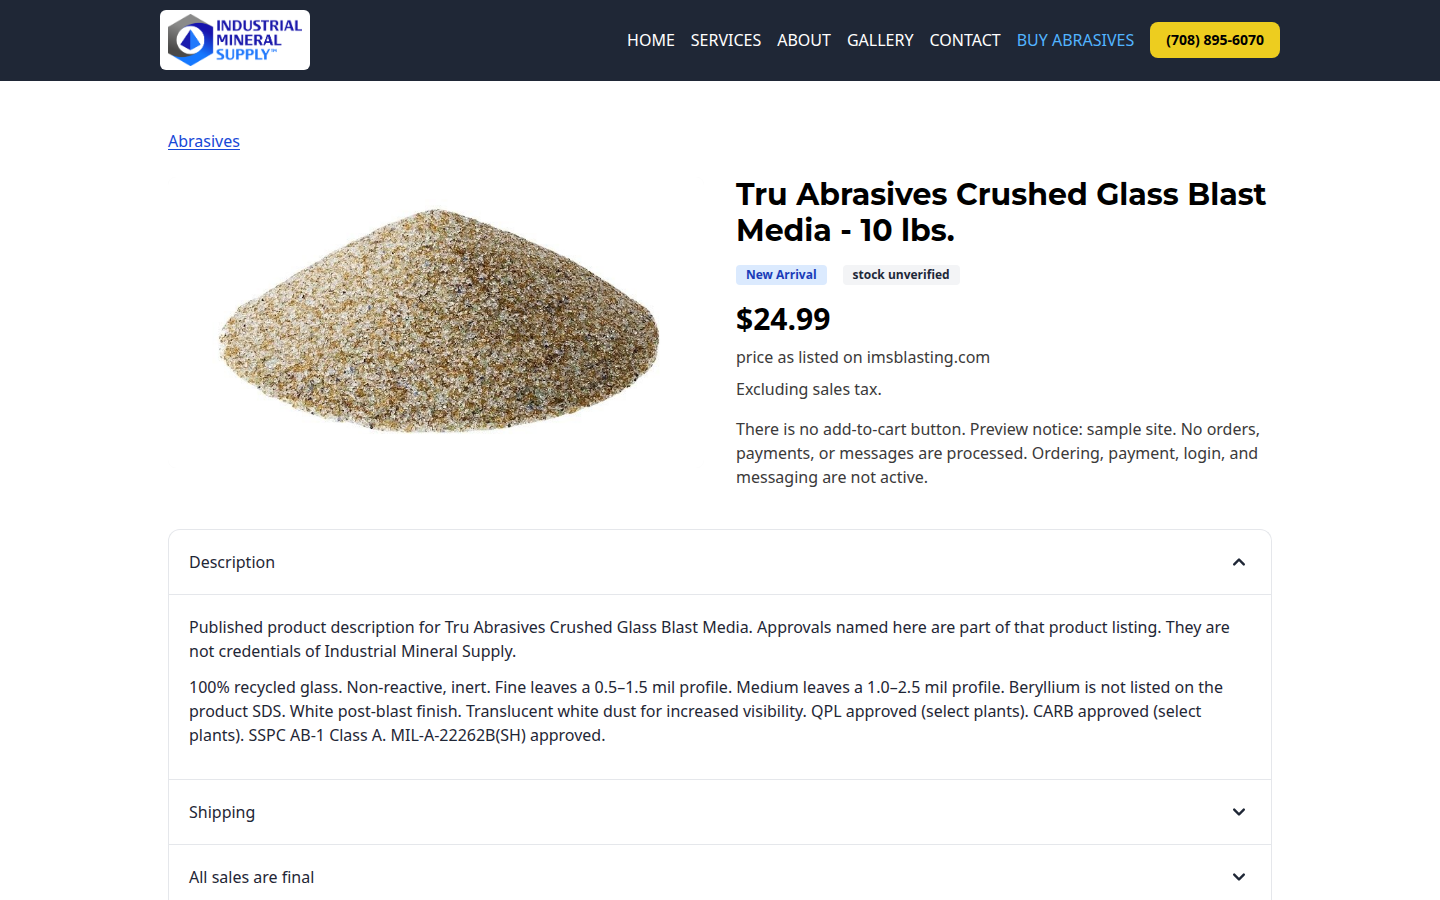
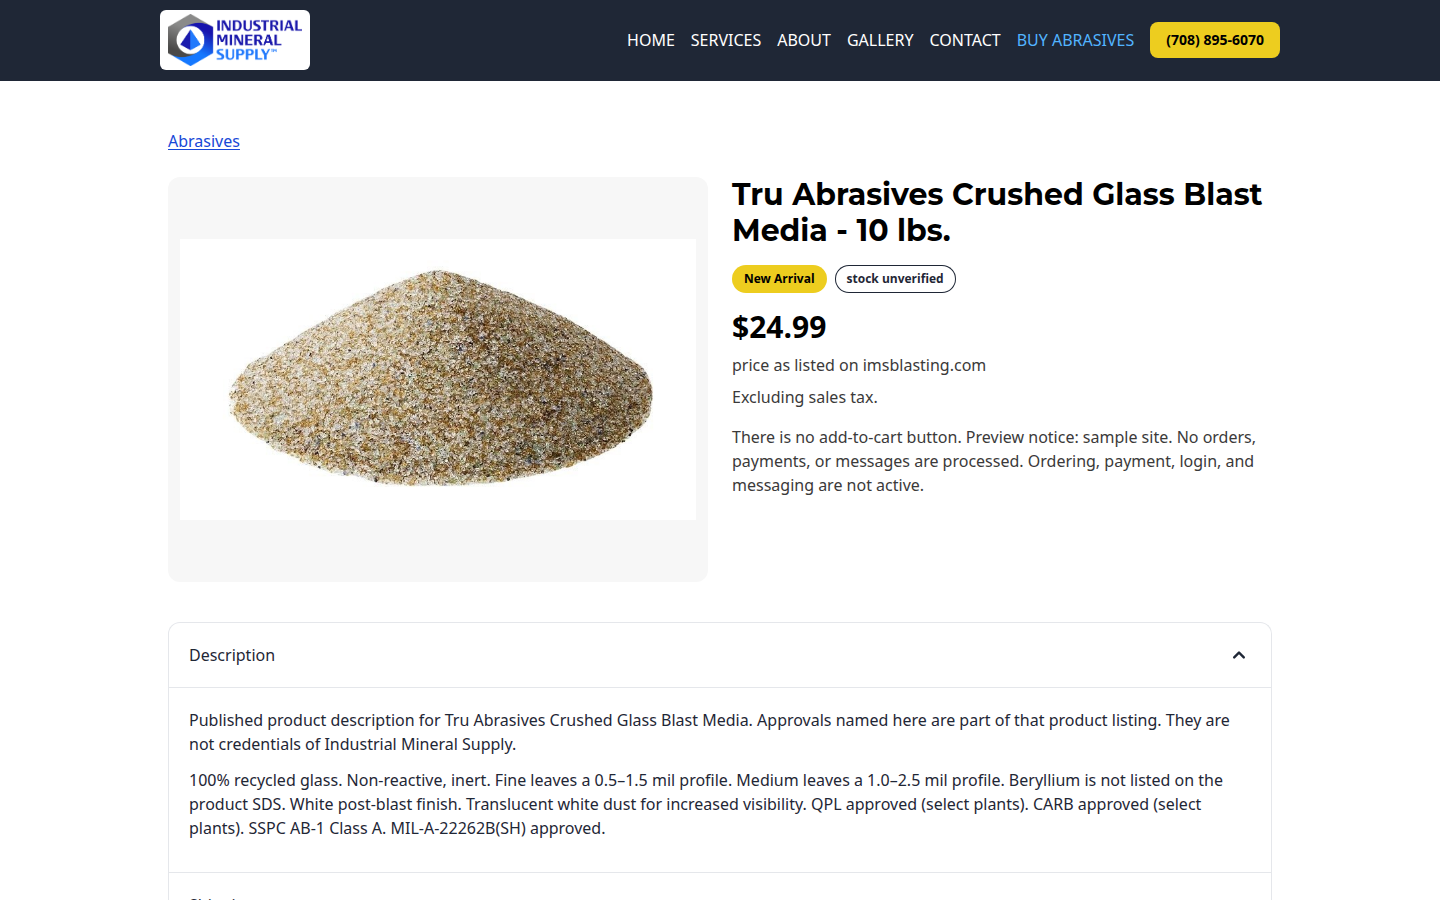
Check product listings and detail pages at 390px.
The Playwright suite now asserts card width, light card text, badge size, and equal grid heights, including the iPhone-width screenshots.

diff --git a/qa/qa.spec.ts b/qa/qa.spec.ts
@@ -25,6 +25,14 @@ const viewports = [
   { width: 1440, height: 900 },
 ] as const;
 
+const productPages = [
+  ['home', '/'],
+  ['shop', '/shop'],
+  ['product-glass', '/shop/tru-abrasives-crushed-glass-blast-media-10-lbs'],
+  ['product-urea', '/shop/urea-plastic-blast-media-5-lbs'],
+  ['product-oxide', '/shop/aluminum-oxide-8-lbs-box'],
+] as const;
+
 const schemes = ['light', 'dark'] as const;
 
 const shotDir = path.join(process.cwd(), 'qa', 'screenshots');
@@ -32,6 +40,62 @@ const shotDir = path.join(process.cwd(), 'qa', 'screenshots');
 test.beforeAll(async () => {
   await mkdir(shotDir, { recursive: true });
 });
+
+async function assertProductLayout(page: Page, viewportWidth: number) {
+  const cards = page.locator('.product-card');
+  const count = await cards.count();
+  const boxes = [];
+  for (let i = 0; i < count; i += 1) {
+    const card = cards.nth(i);
+    const box = await card.boundingBox();
+    expect(box, 'product card is on screen').not.toBeNull();
+    expect(box!.x).toBeGreaterThanOrEqual(-1);
+    expect(box!.x + box!.width).toBeLessThanOrEqual(viewportWidth + 1);
+    const colors = await card.evaluate((el) => {
+      const body = el.querySelector('.product-card__body') as HTMLElement;
+      const title = el.querySelector('h3') as HTMLElement;
+      const note = el.querySelector('.product-card__note') as HTMLElement;
+      const read = (node: HTMLElement) => getComputedStyle(node);
+      return {
+        card: read(el as HTMLElement).backgroundColor,
+        body: read(body).backgroundColor,
+        title: read(title).color,
+        note: read(note).color,
+      };
+    });
+    expect(colors.card).toBe('rgb(255, 255, 255)');
+    expect(colors.body).toBe('rgb(255, 255, 255)');
+    expect(colors.title).toBe('rgb(0, 0, 0)');
+    expect(colors.note).toBe('rgb(59, 58, 58)');
+    expect(box!.x).toBeGreaterThanOrEqual(8);
+    expect(box!.x + box!.width).toBeLessThanOrEqual(viewportWidth - 8);
+    boxes.push(box!);
+  }
+
+  const badges = page.locator('.product-badges > span');
+  const badgeCount = await badges.count();
+  for (let i = 0; i < badgeCount; i += 1) {
+    const badgeBox = await badges.nth(i).boundingBox();
+    expect(badgeBox, 'badge is visible').not.toBeNull();
+    expect(badgeBox!.height).toBeGreaterThanOrEqual(24);
+    expect(badgeBox!.x + badgeBox!.width).toBeLessThanOrEqual(viewportWidth + 1);
+  }
+
+  if (viewportWidth >= 1024 && count >= 3) {
+    expect(Math.abs(boxes[0].height - boxes[1].height)).toBeLessThanOrEqual(2);
+    expect(Math.abs(boxes[1].height - boxes[2].height)).toBeLessThanOrEqual(2);
+  }
+  if (viewportWidth >= 768 && viewportWidth < 1024 && count >= 2) {
+    expect(Math.abs(boxes[0].height - boxes[1].height)).toBeLessThanOrEqual(2);
+  }
+
+  const frame = page.locator('.product-frame').first();
+  if ((await frame.count()) > 0) {
+    const box = await frame.boundingBox();
+    expect(box).not.toBeNull();
+    expect(box!.x + box!.width).toBeLessThanOrEqual(viewportWidth + 1);
+  }
+}
 
 async function overflow(page: Page) {
   return page.evaluate(() => {
@@ -77,6 +141,7 @@ for (const scheme of schemes) {
 
         const axe = await new AxeBuilder({ page }).withRules(['color-contrast']).analyze();
         expect(axe.violations, JSON.stringify(axe.violations, null, 2)).toEqual([]);
+        await assertProductLayout(page, viewport.width);
 
         if (viewport.width === 375) {
           const menu = page.locator('#site-nav');
@@ -90,6 +155,39 @@ for (const scheme of schemes) {
         });
       });
     }
+  }
+}
+
+for (const scheme of schemes) {
+  for (const [name, url] of productPages) {
+    test(`${scheme} 390 ${name}`, async ({ page }) => {
+      const errors: string[] = [];
+      page.on('pageerror', (error) => errors.push(error.message));
+      page.on('console', (message) => {
+        if (message.type() === 'error') errors.push(message.text());
+      });
+
+      await page.emulateMedia({ colorScheme: scheme });
+      await page.setViewportSize({ width: 390, height: 844 });
+      await page.goto(url, { waitUntil: 'networkidle' });
+
+      const layout = await overflow(page);
+      expect(layout.scrollWidth, layout.offenders.join('\n')).toBeLessThanOrEqual(layout.viewport + 1);
+      expect(layout.offenders, 'elements wider than the viewport').toEqual([]);
+
+      const axe = await new AxeBuilder({ page }).withRules(['color-contrast']).analyze();
+      expect(axe.violations, JSON.stringify(axe.violations, null, 2)).toEqual([]);
+      await assertProductLayout(page, 390);
+
+      const menu = page.locator('#site-nav');
+      await expect(menu).toBeHidden();
+      expect(errors, 'console errors').toEqual([]);
+
+      await page.screenshot({
+        path: path.join(shotDir, `${scheme}-390-${name}.png`),
+        fullPage: name === 'shop' || name === 'home',
+      });
+    });
   }
 }
 
